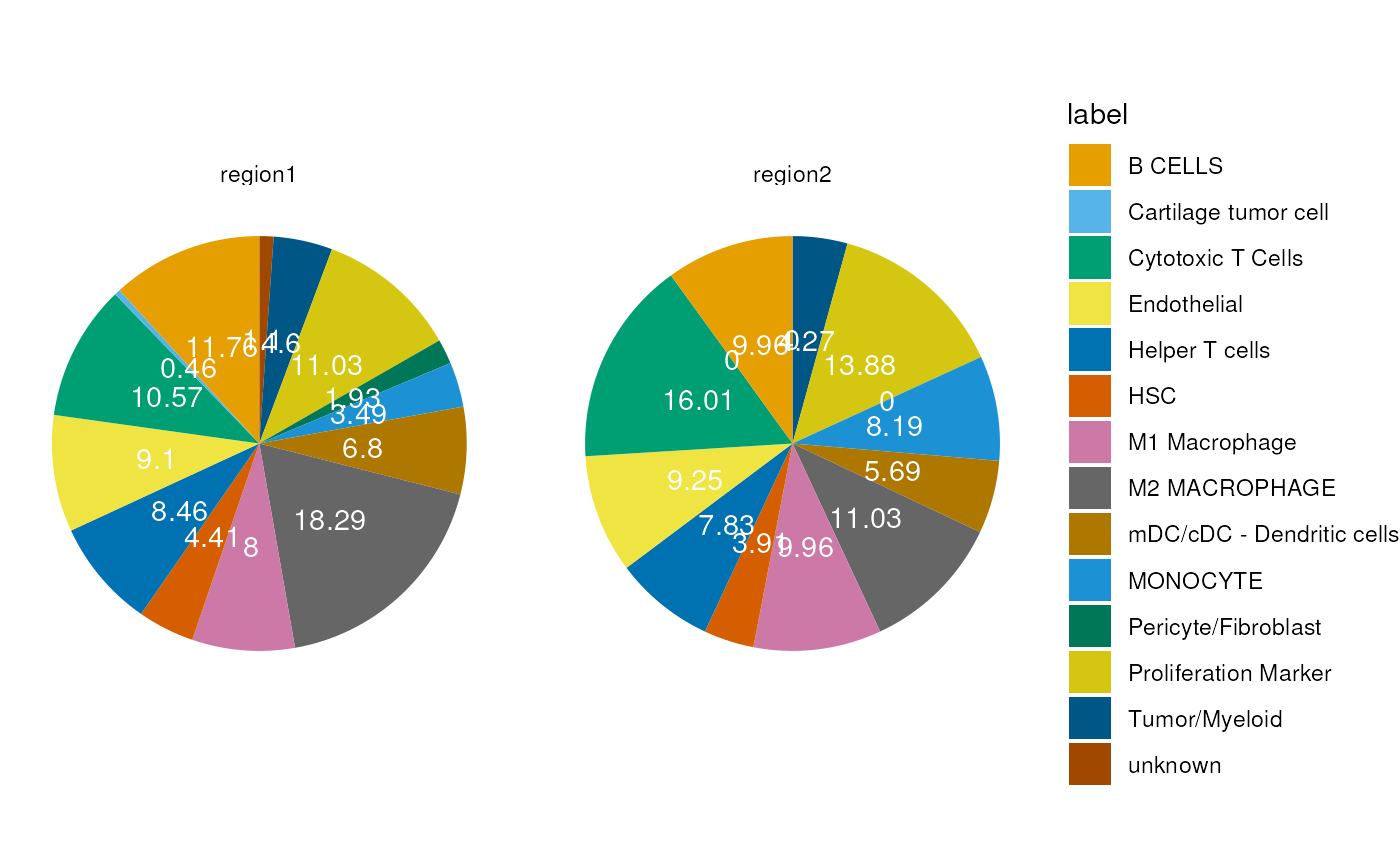
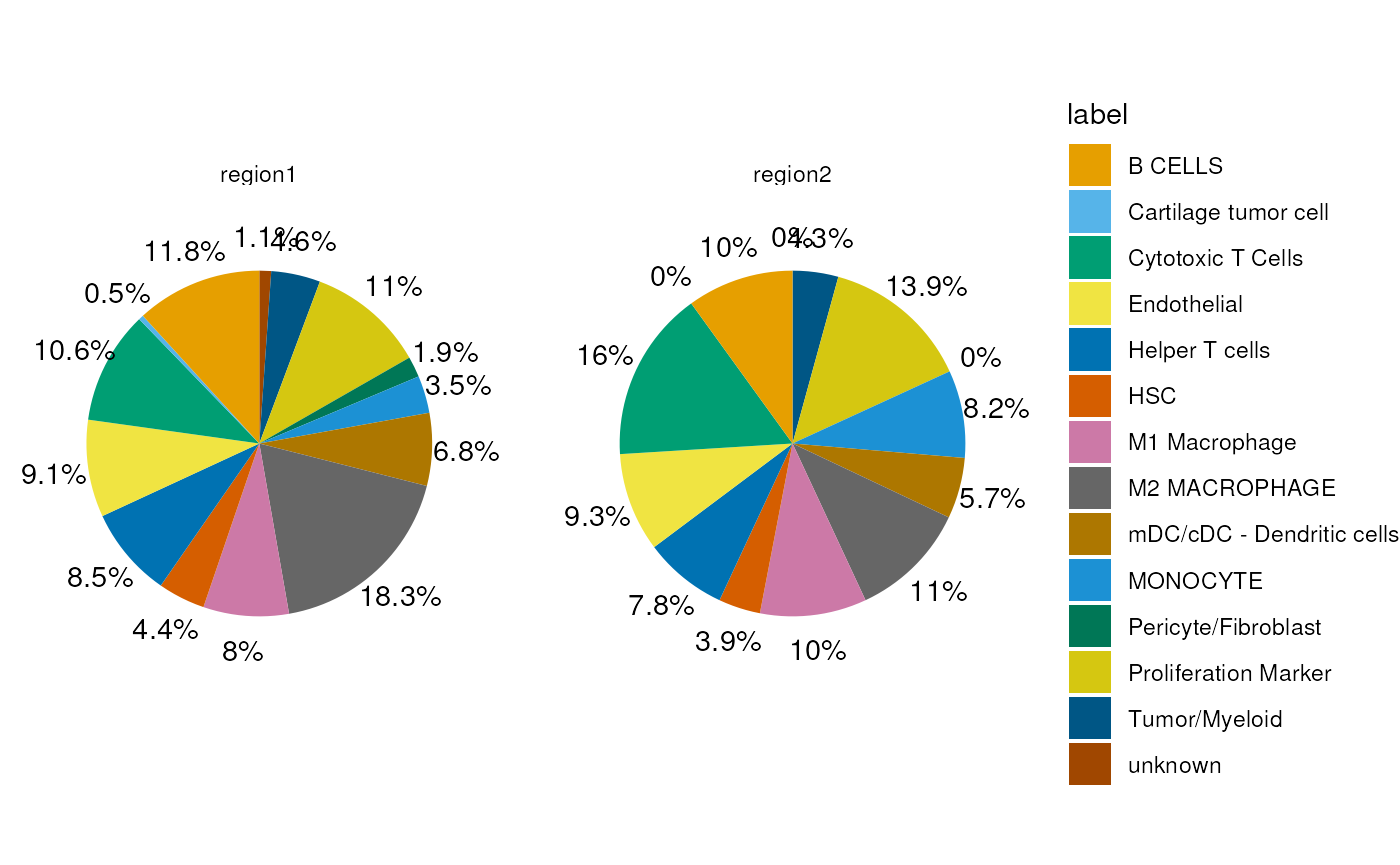
Deploying to gh-pages from @ jianhong/cdQuPath@9153044fceff0e0574510a3ba0352355092420cf 🚀

diff --git a/articles/cdQuPath.html b/articles/cdQuPath.html
@@ -69,7 +69,7 @@
                         <h4 data-toc-skip class="author">Jianhong
 Ou</h4>
             
-            <h4 data-toc-skip class="date">27 August 2024</h4>
+            <h4 data-toc-skip class="date">3 September 2024</h4>
       
       <small class="dont-index">Source: <a href="https://github.com/jianhong/cdQuPath/blob/main/vignettes/cdQuPath.Rmd" class="external-link"><code>vignettes/cdQuPath.Rmd</code></a></small>
       <div class="hidden name"><code>cdQuPath.Rmd</code></div>
@@ -605,7 +605,9 @@ create a merged dataset.</p>
 <span>  <span class="fu">dplyr</span><span class="fu">::</span><span class="fu"><a href="https://dplyr.tidyverse.org/reference/mutate.html" class="external-link">mutate</a></span><span class="op">(</span>y_pos <span class="op">=</span> <span class="fu"><a href="https://rdrr.io/r/base/cumsum.html" class="external-link">cumsum</a></span><span class="op">(</span><span class="va">percent</span><span class="op">)</span> <span class="op">-</span> <span class="fl">0.5</span><span class="op">*</span><span class="va">percent</span><span class="op">)</span></span>
 <span><span class="fu"><a href="https://ggplot2.tidyverse.org/reference/ggplot.html" class="external-link">ggplot</a></span><span class="op">(</span><span class="va">plotData</span>, <span class="fu"><a href="https://ggplot2.tidyverse.org/reference/aes.html" class="external-link">aes</a></span><span class="op">(</span>x<span class="op">=</span><span class="st">""</span>, y <span class="op">=</span> <span class="va">percent</span>, fill <span class="op">=</span> <span class="va">label</span><span class="op">)</span><span class="op">)</span> <span class="op">+</span></span>
 <span>  <span class="fu"><a href="https://ggplot2.tidyverse.org/reference/geom_bar.html" class="external-link">geom_bar</a></span><span class="op">(</span>stat<span class="op">=</span><span class="st">"identity"</span>, width <span class="op">=</span> <span class="fl">1</span><span class="op">)</span> <span class="op">+</span></span>
-<span>  <span class="fu"><a href="https://ggplot2.tidyverse.org/reference/geom_text.html" class="external-link">geom_text</a></span><span class="op">(</span><span class="fu"><a href="https://ggplot2.tidyverse.org/reference/aes.html" class="external-link">aes</a></span><span class="op">(</span>y<span class="op">=</span><span class="va">y_pos</span>, label<span class="op">=</span><span class="fu"><a href="https://rdrr.io/r/base/Round.html" class="external-link">round</a></span><span class="op">(</span><span class="va">percent</span><span class="op">*</span><span class="fl">100</span>, digits <span class="op">=</span> <span class="fl">2</span><span class="op">)</span><span class="op">)</span>, color <span class="op">=</span> <span class="st">'white'</span><span class="op">)</span> <span class="op">+</span></span>
+<span>  <span class="fu"><a href="https://ggplot2.tidyverse.org/reference/geom_text.html" class="external-link">geom_text</a></span><span class="op">(</span><span class="fu"><a href="https://ggplot2.tidyverse.org/reference/aes.html" class="external-link">aes</a></span><span class="op">(</span>x<span class="op">=</span><span class="fl">1.7</span>, y<span class="op">=</span><span class="va">y_pos</span>,</span>
+<span>                label<span class="op">=</span><span class="fu"><a href="https://rdrr.io/r/base/paste.html" class="external-link">paste0</a></span><span class="op">(</span><span class="fu"><a href="https://rdrr.io/r/base/Round.html" class="external-link">round</a></span><span class="op">(</span><span class="va">percent</span><span class="op">*</span><span class="fl">100</span>, digits <span class="op">=</span> <span class="fl">1</span><span class="op">)</span>, <span class="st">'%'</span><span class="op">)</span><span class="op">)</span>,</span>
+<span>            color <span class="op">=</span> <span class="st">'black'</span><span class="op">)</span> <span class="op">+</span></span>
 <span>  <span class="fu"><a href="https://ggplot2.tidyverse.org/reference/coord_polar.html" class="external-link">coord_polar</a></span><span class="op">(</span>theta <span class="op">=</span> <span class="st">'y'</span><span class="op">)</span> <span class="op">+</span></span>
 <span>  <span class="fu"><a href="https://ggplot2.tidyverse.org/reference/facet_wrap.html" class="external-link">facet_wrap</a></span><span class="op">(</span><span class="op">~</span><span class="va">grouping</span><span class="op">)</span> <span class="op">+</span></span>
 <span>  <span class="fu"><a href="https://ggplot2.tidyverse.org/reference/ggtheme.html" class="external-link">theme_void</a></span><span class="op">(</span><span class="op">)</span> <span class="op">+</span></span>
@@ -861,7 +863,7 @@ datasets methods<br>
 <p>other attached packages: [1] future.apply_1.11.2 future_1.34.0<br>
 [3] dplyr_1.1.4 SpatialExperiment_1.15.1<br>
 [5] SingleCellExperiment_1.27.2 SummarizedExperiment_1.35.1 [7]
-Biobase_2.65.0 GenomicRanges_1.57.1<br>
+Biobase_2.65.1 GenomicRanges_1.57.1<br>
 [9] GenomeInfoDb_1.41.1 IRanges_2.39.2<br>
 [11] S4Vectors_0.43.2 BiocGenerics_0.51.0<br>
 [13] MatrixGenerics_1.17.0 matrixStats_1.3.0<br>
@@ -892,12 +894,12 @@ splines_4.4.1 later_1.3.2<br>
 [58] systemfonts_1.1.0 foreach_1.5.2 tools_4.4.1<br>
 [61] ragg_1.3.2 ica_1.0-3 Rcpp_1.0.13<br>
 [64] glue_1.7.0 gridExtra_2.3 SparseArray_1.5.31<br>
-[67] xfun_0.47 withr_3.0.1 BiocManager_1.30.24<br>
+[67] xfun_0.47 withr_3.0.1 BiocManager_1.30.25<br>
 [70] fastmap_1.2.0 fansi_1.0.6 digest_0.6.37<br>
 [73] R6_2.5.1 mime_0.12 textshaping_0.4.0<br>
 [76] colorspace_2.1-1 scattermore_1.2 tensor_1.5<br>
 [79] spatstat.data_3.1-2 utf8_1.2.4 tidyr_1.3.1<br>
-[82] generics_0.1.3 data.table_1.15.4 class_7.3-22<br>
+[82] generics_0.1.3 data.table_1.16.0 class_7.3-22<br>
 [85] httr_1.4.7 htmlwidgets_1.6.4 S4Arrays_1.5.7<br>
 [88] uwot_0.2.2 pkgconfig_2.0.3 scico_1.5.0<br>
 [91] gtable_0.3.5 ComplexHeatmap_2.21.0 lmtest_0.9-40<br>
